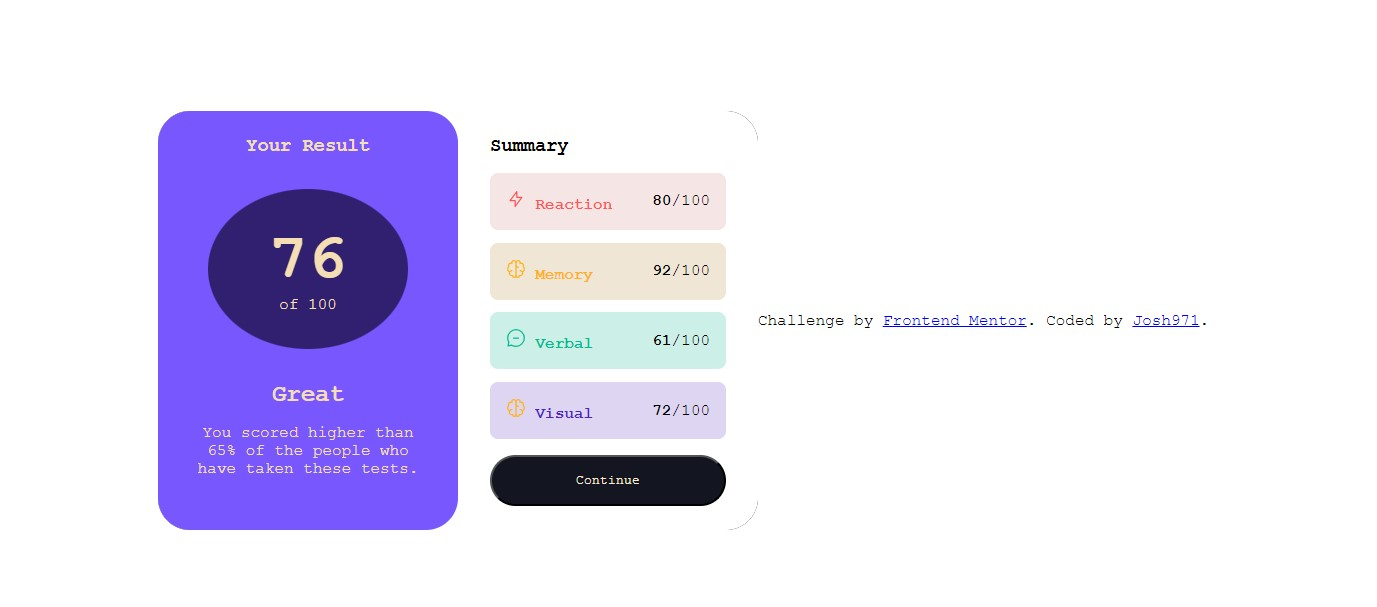
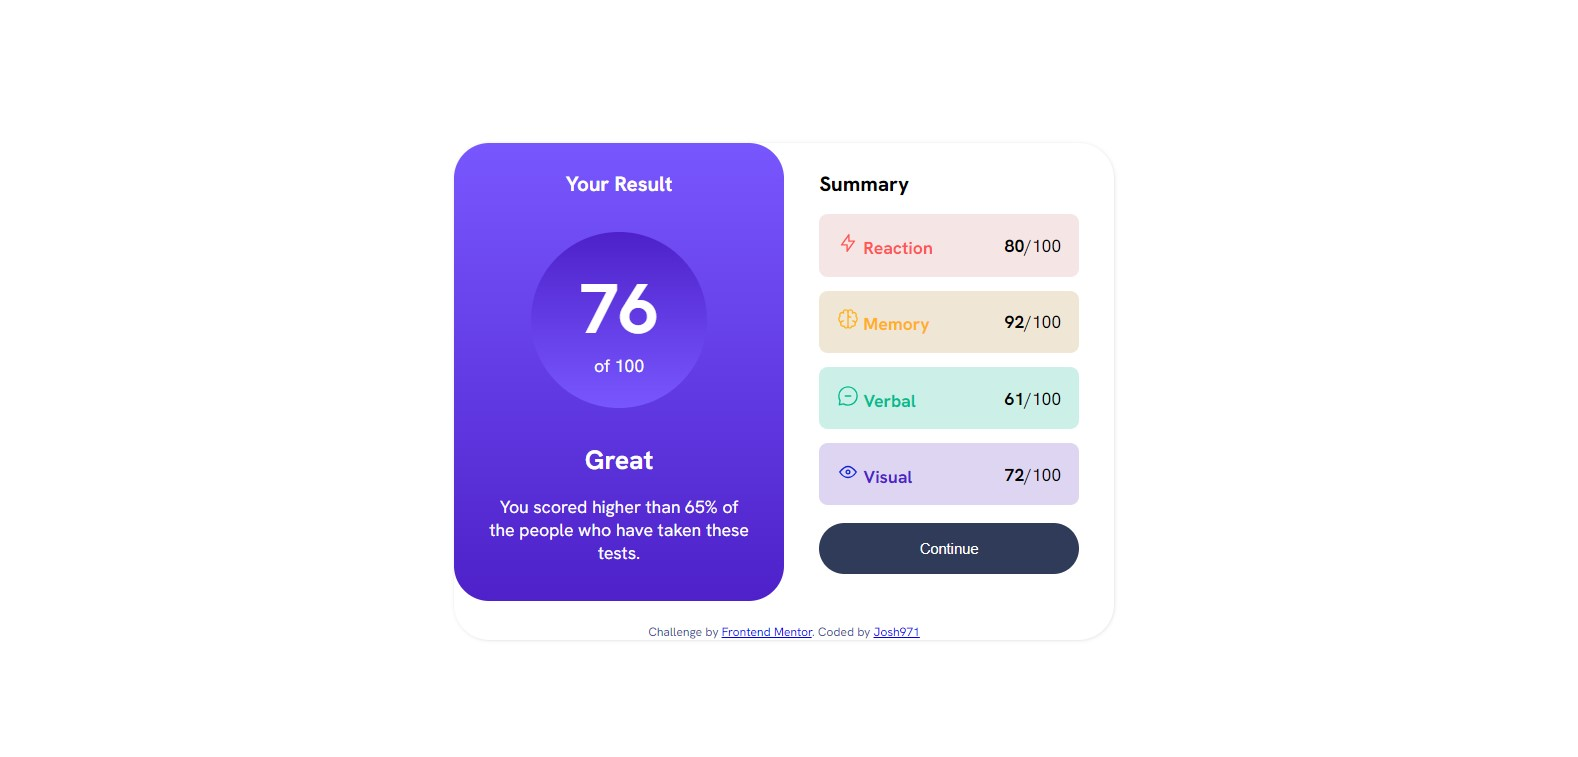
#

diff --git a/git hub/results-summary-component-main/index.html b/git hub/results-summary-component-main/index.html
@@ -125,35 +125,7 @@
             </div>
             <div class="row">
               <div class="badge">
-                <svg
-                  xmlns="http://www.w3.org/2000/svg"
-                  width="20"
-                  height="20"
-                  fill="none"
-                  viewBox="0 0 20 20"
-                >
-                  <path
-                    stroke="#FFB21E"
-                    stroke-linecap="round"
-                    stroke-linejoin="round"
-                    stroke-width="1.25"
-                    d="M5.833 11.667a2.5 2.5 0 1 0 .834 4.858"
-                  />
-                  <path
-                    stroke="#FFB21E"
-                    stroke-linecap="round"
-                    stroke-linejoin="round"
-                    stroke-width="1.25"
-                    d="M3.553 13.004a3.333 3.333 0 0 1-.728-5.53m.025-.067a2.083 2.083 0 0 1 2.983-2.824m.199.054A2.083 2.083 0 1 1 10 3.75v12.917a1.667 1.667 0 0 1-3.333 0M10 5.833a2.5 2.5 0 0 0 2.5 2.5m1.667 3.334a2.5 2.5 0 1 1-.834 4.858"
-                  />
-                  <path
-                    stroke="#FFB21E"
-                    stroke-linecap="round"
-                    stroke-linejoin="round"
-                    stroke-width="1.25"
-                    d="M16.447 13.004a3.334 3.334 0 0 0 .728-5.53m-.025-.067a2.083 2.083 0 0 0-2.983-2.824M10 3.75a2.085 2.085 0 0 1 2.538-2.033 2.084 2.084 0 0 1 1.43 2.92m-.635 12.03a1.667 1.667 0 0 1-3.333 0"
-                  />
-                </svg>
+                <svg xmlns="http://www.w3.org/2000/svg" width="20" height="20" fill="none" viewBox="0 0 20 20"><path stroke="#1125D6" stroke-linecap="round" stroke-linejoin="round" stroke-width="1.25" d="M10 11.667a1.667 1.667 0 1 0 0-3.334 1.667 1.667 0 0 0 0 3.334Z"/><path stroke="#1125D6" stroke-linecap="round" stroke-linejoin="round" stroke-width="1.25" d="M17.5 10c-1.574 2.492-4.402 5-7.5 5s-5.926-2.508-7.5-5C4.416 7.632 6.66 5 10 5s5.584 2.632 7.5 5Z"/></svg>
                 <b>Visual</b>
               </div>
               <p><b>72</b>/100</p>
@@ -161,13 +133,14 @@
           </div>
           <button class="button">Continue</button>
         </section>
-      </div>
-      <div class="attribution">
-        Challenge by
-        <a href="https://www.frontendmentor.io?ref=challenge" target="_blank"
-          >Frontend Mentor</a
-        >. Coded by <a href="#">Josh971</a>.
-      </div>
+        </div>
+      
+        <br>
+    <div class="attribution">
+      Challenge by
+      <a href="https://www.frontendmentor.io?ref=challenge" target="_blank"
+        >Frontend Mentor</a>. Coded by <a href="#">Josh971</a>
     </div>
+
   </body>
 </html>

diff --git a/git hub/results-summary-component-main/css/style.css b/git hub/results-summary-component-main/css/style.css
@@ -1,5 +1,5 @@
 :root {
-  --color-white: #fff;
+  --color-white: white;
   --color-light-purple: hsl(252, 100%, 67%);
   --color-dark-purple: hsla(256, 72%, 46%, 1);
 }
@@ -125,17 +125,28 @@ body {
   color: hsla(256, 72%, 46%, 1);
 }
 .button {
+  border: 0;
   border-radius: 2rem;
   padding: 1rem;
-  margin-top: auto;
-  background-color: #131620;
-  color: antiquewhite;
+  background-color:hsl(224, 30%, 27%)
+  ;
+  color: white;
 }
 .button:hover {
-  background-color: rgb(60, 31, 87);
+  background: linear-gradient(
+    to bottom,
+    var(--color-light-purple),
+    var(--color-dark-purple)
+  );
 }
 
-@media screen and (max-width: 650px) {
+.attribution {
+  font-size: 11px; 
+  text-align: center; 
+  color: hsl(228, 45%, 44%);
+}
+
+@media screen and (max-width:750px) {
   body {
     align-items: flex-start;
     background-color: white;
